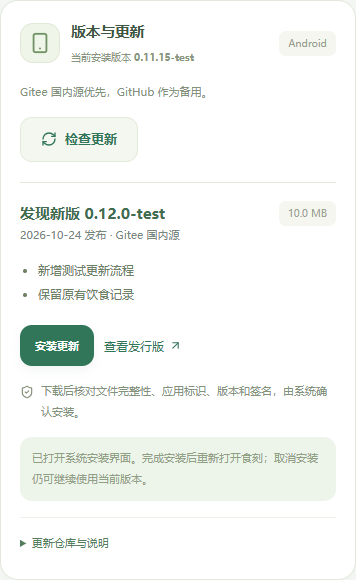
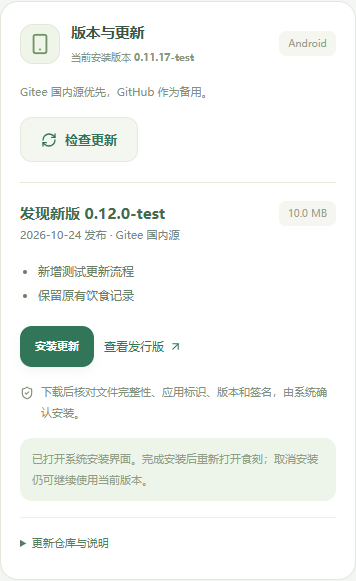
fix(update): 区分公开接口限流和未完成的更新检查

diff --git a/packages/web/src/components/AppUpdates.vue b/packages/web/src/components/AppUpdates.vue
@@ -7,7 +7,7 @@ import { appUpdateInfo, buildUpdateInfo, cancelAppUpdate, checkAppUpdate, downlo
 
 const native = nativeUpdatesSupported(), info = ref(buildUpdateInfo()), repository = ref(info.value.repository)
 const giteeRepository = ref(info.value.giteeRepository)
-const release = ref<UpdateRelease | null>(null), state = ref<'idle' | 'checking' | 'available' | 'current' | 'no_release' | 'downloading' | 'ready'>('idle')
+const release = ref<UpdateRelease | null>(null), state = ref<'idle' | 'checking' | 'available' | 'current' | 'no_release' | 'partial' | 'downloading' | 'ready'>('idle')
 const progress = ref<UpdateProgress>({ phase: 'downloading', percent: 0, received: 0, total: 0 }), error = ref(''), message = ref(''), saving = ref(false), installing = ref(false), cancelling = ref(false)
 const locked = computed(() => saving.value || installing.value || state.value === 'checking' || state.value === 'downloading')
 const compatible = computed(() => !native || !release.value || release.value.manifest.minSdk <= info.value.sdk)
@@ -64,6 +64,7 @@ async function install() {
     <div class="settings-card-title"><span class="settings-feature-icon"><Smartphone :size="22" /></span><div><h2>版本与更新</h2><p>当前{{ native ? '安装' : '网页' }}版本 <strong data-testid="app-current-version">{{ info.versionName }}</strong></p></div><span class="soft-tag">{{ native ? 'Android' : '网页版' }}</span></div>
     <div class="app-update-overview"><p data-testid="app-update-priority">{{ info.giteeRepository ? 'Gitee 国内源优先，GitHub 作为备用。' : '从 GitHub 检查公开发行版。' }}</p><button type="button" class="button secondary" data-testid="check-app-update" :disabled="locked" @click="check"><LoaderCircle v-if="state === 'checking'" :size="16" class="spin" /><RefreshCw v-else :size="16" />{{ state === 'checking' ? '正在检查' : '检查更新' }}</button></div>
     <p v-if="state === 'current'" class="notice" data-testid="app-update-status">当前已是此发布源提供的版本或更新版本。</p>
+    <p v-if="state === 'partial'" class="notice warning" data-testid="app-update-status">部分更新源检查未完成，请稍后重试，或到发行版页面核对。</p>
     <p v-if="state === 'no_release'" class="notice warning" data-testid="app-update-status">暂未发现带更新文件的公开发行版，请先在仓库发布 APK 和更新说明文件。</p>
     <div v-if="release && ['available', 'downloading', 'ready'].includes(state)" class="app-update-release" data-testid="app-update-release">
       <div class="section-heading"><h3>发现新版 {{ release.manifest.versionName }}</h3><span class="soft-tag">{{ formatBytes(release.manifest.bytes) }}</span></div>
@@ -75,6 +76,7 @@ async function install() {
       <p class="app-update-verification"><ShieldCheck :size="14" /><span>{{ native ? '下载后核对文件完整性、应用标识、版本和签名，由系统确认安装。' : '安卓 APK 用于手机安装；网页由部署者更新，刷新时保留同一来源的本地记录。' }}</span></p>
     </div>
     <p v-if="error" class="notice danger" role="alert" data-testid="app-update-error">{{ error }}</p><p v-if="message" class="notice" role="status" data-testid="app-update-message">{{ message }}</p>
+    <p v-if="(state === 'partial' || error) && info.giteeRepository" class="tiny"><a class="text-button" :href="`https://gitee.com/${info.giteeRepository}/releases`" target="_blank" rel="noopener noreferrer">直接查看 Gitee 发行版<ArrowUpRight :size="13"/></a></p>
     <details class="settings-inline-details app-update-source" data-testid="app-update-source"><summary>更新仓库与说明</summary><p>先查 Gitee；连接失败、未发布或没有更高版本时再查 GitHub。读取公开版本无需令牌。</p><label>Gitee 国内源（优先）<input v-model="giteeRepository" :disabled="locked" placeholder="用户名/仓库名；留空停用" autocomplete="off" spellcheck="false" data-testid="update-gitee-repository" /></label><label>GitHub 备用源<input v-model="repository" :disabled="locked" placeholder="用户名/仓库名" autocomplete="off" spellcheck="false" data-testid="update-repository" /></label><button class="button secondary" :disabled="locked" data-testid="save-update-repository" @click="saveRepository">保存仓库</button><p>点击检查才联网；测试发行版也会列出。Gitee 下载连接失败时，仅在备用源版本与哈希一致时切换；校验失败会停止。下载可取消，安装由系统确认，保留记录与模型配置。</p></details>
   </article>
 </template>

diff --git a/packages/web/src/lib/app-updates.ts b/packages/web/src/lib/app-updates.ts
@@ -3,7 +3,7 @@ import { defaultGiteeUpdateRepository, defaultUpdateRepository, giteeUpdateAsset
 import release from '../../../../config/app-release.json'
 
 export interface AppUpdateInfo { appId: string; versionCode: number; versionName: string; repository: string; giteeRepository: string; sdk: number; readyVersionCode: number; readySource?: UpdateSource }
-export interface AppUpdateCheck { current: AppUpdateInfo; status: 'available' | 'current' | 'no_release'; release: UpdateRelease | null; message?: string }
+export interface AppUpdateCheck { current: AppUpdateInfo; status: 'available' | 'current' | 'no_release' | 'partial'; release: UpdateRelease | null; message?: string }
 export interface UpdateProgress { phase: 'downloading' | 'verifying'; percent: number; received: number; total: number; source?: UpdateSource }
 interface UpdaterBridge {
   getInfo(): Promise<AppUpdateInfo>
@@ -45,6 +45,7 @@ export async function checkAppUpdate(): Promise<AppUpdateCheck> {
       if (!response.ok) {
         if (source === 'gitee') { const body = await response.json().catch(() => null); if (body?.error?.code === 'UPDATE_METADATA_INVALID') throw new Error('Gitee更新文件无效，已停止检查。') }
         if (response.status === 404) throw new SourceUnavailable(`${label}仓库或更新文件不存在、尚未公开，请检查仓库与发行版设置。`)
+        if (source === 'github' && (response.status === 403 || response.status === 429) && response.headers.get('x-ratelimit-remaining') === '0') throw new SourceUnavailable('GitHub公开接口请求额度已用完，请稍后重试；更新检查无需Token。')
         throw new SourceUnavailable(`${label}暂时限制访问或服务不可用，请稍后重试。`)
       }
       if (!response.body) throw new Error('更新信息为空。')
@@ -75,7 +76,7 @@ export async function checkAppUpdate(): Promise<AppUpdateCheck> {
     return { current, status: first || backup ? 'current' : 'no_release', release: first || backup }
   } catch (error) {
     if (!(error instanceof SourceUnavailable)) throw new Error('GitHub更新文件无效，已停止检查；请联系发布者。')
-    if (first) return { current, status: 'current', release: first, message: `已检查 Gitee；${error.message} 备用源未完成检查。` }
+    if (first) return { current, status: 'partial', release: first, message: `Gitee提供${first.manifest.versionName}；${error.message} 备用源未完成检查，暂不能确认没有新版本。` }
     throw error
   }
 }

diff --git a/packages/web/tests/app-updates.test.ts b/packages/web/tests/app-updates.test.ts
@@ -50,7 +50,7 @@ describe('更新桥接与网页版只读检查', () => {
     const fetcher = vi.fn().mockResolvedValueOnce(response(giteeList)).mockResolvedValueOnce(response({ ...manifest, sha256: 'bad' })); vi.stubGlobal('fetch', fetcher);
     await expect(checkAppUpdate()).rejects.toThrow('Gitee更新文件无效'); expect(fetcher).toHaveBeenCalledTimes(2);
     fetcher.mockReset().mockResolvedValueOnce(response(giteeList)).mockResolvedValueOnce(response({ ...manifest, versionCode: buildUpdateInfo().versionCode })).mockRejectedValueOnce(new Error());
-    const result = await checkAppUpdate(); expect(result.status).toBe('current'); expect(result.message).toContain('备用源未完成检查');
+    const result = await checkAppUpdate(); expect(result.status).toBe('partial'); expect(result.message).toContain('备用源未完成检查');
     fetcher.mockReset().mockRejectedValueOnce(new Error()).mockResolvedValueOnce(response([])); await expect(checkAppUpdate()).rejects.toThrow('尚无法确认更新');
   });
   it('保留旧仓库、自定义仓库不自动指向官方镜像，两个源可独立保存和停用', async () => {
@@ -59,6 +59,11 @@ describe('更新桥接与网页版只读检查', () => {
     await setUpdateRepository('team/custom', 'https://gitee.com/team_cn/app.git'); expect(buildUpdateInfo()).toMatchObject({ repository: 'team/custom', giteeRepository: 'team_cn/app' });
     await setUpdateRepository('team/custom', ''); expect(buildUpdateInfo().giteeRepository).toBe('');
     await expect(setUpdateRepository('Anxiu29/shike', 'https://token@gitee.com/a/b')).rejects.toThrow();
+  });
+  it('匿名GitHub额度耗尽与Token失效区分；只检查到旧镜像时不宣称最新', async () => {
+    const fetcher = vi.fn().mockResolvedValueOnce(response(giteeList)).mockResolvedValueOnce(response({ ...manifest, versionCode: buildUpdateInfo().versionCode }))
+      .mockResolvedValueOnce(new Response('{}', { status: 403, headers: { 'x-ratelimit-remaining': '0' } })); vi.stubGlobal('fetch', fetcher);
+    const result = await checkAppUpdate(); expect(result.status).toBe('partial'); expect(result.message).toContain('公开接口请求额度已用完'); expect(result.message).toContain('无需Token');
   });
   it('原生下载与安装不接受网页提供的APK地址或版本，安装窗口打开不等于更新完成', async () => {
     mock.native = true;

diff --git a/packages/web/android/app/src/main/java/cn/anxiu29/shike/AppUpdaterPlugin.java b/packages/web/android/app/src/main/java/cn/anxiu29/shike/AppUpdaterPlugin.java
@@ -72,7 +72,7 @@ public class AppUpdaterPlugin extends Plugin {
         final String github = repository(), gitee = giteeRepository();
         worker.execute(() -> {
             try {
-                checked = null; Release first = null, result; String reason = "", notice = "";
+                checked = null; Release first = null, result; String reason = "", notice = ""; boolean partial = false;
                 if (!gitee.isEmpty()) {
                     try { first = fetchRelease("gitee", gitee); } catch (SourceUnavailable error) { reason = error.getMessage(); }
                 }
@@ -85,12 +85,12 @@ public class AppUpdaterPlugin extends Plugin {
                         if (!reason.isEmpty() && backup == null) throw new SourceUnavailable(reason + " GitHub暂无可用发行版，尚无法确认更新。");
                     } catch (SourceUnavailable error) {
                         if (first == null) throw error;
-                        result = first; notice = "已检查 Gitee；" + error.getMessage() + " 备用源未完成检查。";
+                        result = first; partial = true; notice = "Gitee提供" + first.manifest.getString("versionName") + "；" + error.getMessage() + " 备用源未完成检查，暂不能确认没有新版本。";
                     }
                 }
                 checked = result;
                 if (ready != null && (result == null || !ready.manifest.toString().equals(result.manifest.toString()))) ready = null;
-                call.resolve(new JSObject().put("current", info()).put("status", result == null ? "no_release" : result.manifest.getLong("versionCode") > version(installed()) ? "available" : "current").put("release", result == null ? JSONObject.NULL : result.json()).put("message", notice));
+                call.resolve(new JSObject().put("current", info()).put("status", result == null ? "no_release" : result.manifest.getLong("versionCode") > version(installed()) ? "available" : partial ? "partial" : "current").put("release", result == null ? JSONObject.NULL : result.json()).put("message", notice));
             } catch (Exception error) { call.reject(message(error, "更新文件无效或读取失败，请检查网络与发行版文件后重试。")); }
             finally { close(); busy.set(false); }
         });
@@ -147,8 +147,10 @@ public class AppUpdaterPlugin extends Plugin {
             try { status = current.getResponseCode(); } catch (IOException error) { current.disconnect(); throw new SourceUnavailable((source.equals("gitee") ? "Gitee" : "GitHub") + "连接失败或超时。"); }
             if (status == 200) return current;
             if (status >= 300 && status < 400) { String location = current.getHeaderField("Location"); current.disconnect(); if (location == null) break; target = new URL(new URL(target), location).toString(); continue; }
+            boolean exhausted = source.equals("github") && "0".equals(current.getHeaderField("X-RateLimit-Remaining"));
             current.disconnect();
             if (status == 404) throw new SourceUnavailable((source.equals("gitee") ? "Gitee" : "GitHub") + "仓库或更新文件不存在、尚未公开，请检查仓库与发行版设置。");
+            if ((status == 403 || status == 429) && exhausted) throw new SourceUnavailable("GitHub公开接口请求额度已用完，请稍后重试；更新检查无需Token。");
             if (status == 403 || status == 429) throw new SourceUnavailable((source.equals("gitee") ? "Gitee" : "GitHub") + "暂时限制访问，请稍后重试并检查网络。");
             throw new SourceUnavailable((source.equals("gitee") ? "Gitee" : "GitHub") + "更新服务暂不可用（HTTP " + status + "）。");
         }

diff --git a/docs/app-updates.md b/docs/app-updates.md
@@ -50,3 +50,9 @@
 - 检查不自动下载，下载不自动安装。取消或失败不写饮食数据库，不改现有模型配置。安装状态不伪装成已完成。
 - 网页版可查看发布说明并打开APK下载链接，网页本身由部署者更新；保持同一网页来源才能继续访问原来的本地记录。
 - 浏览器模拟桥和原生规则测试不等于手机完成了真实安装，公开仓库上线后仍需用同签名递增版本在真机验收。
+
+## 0.11.13检查不到新版的处理
+
+Gitee公开列表默认按旧版在前返回，0.11.13把首项当成最新版。0.11.15起请求明确指定direction=desc，并独立排序；测试/预览标记不会被过滤。旧客户端无法通过新包修改自身的已安装逻辑，需要先从公开Gitee发行版下载一次同签名新版覆盖安装，保留原有数据，勿先卸载。
+
+2026-10-26实际匿名GitHub请求返回403、X-RateLimit-Remaining=0，响应为API rate limit exceeded；同机已登录gh调用仍成功。这是公开接口额度耗尽的证据，不是凭据失效。App检查公开更新不保存或使用GitHub Token；不要把个人Token填入模型Key或更新仓库。0.11.18起明确提示公开接口额度耗尽，备用源检查失败且Gitee没有更高版本时显示“部分更新源检查未完成”，不宣称已确认最新，并提供Gitee发行版直达链接。仍需真机验证不同网络下的安装流程。
